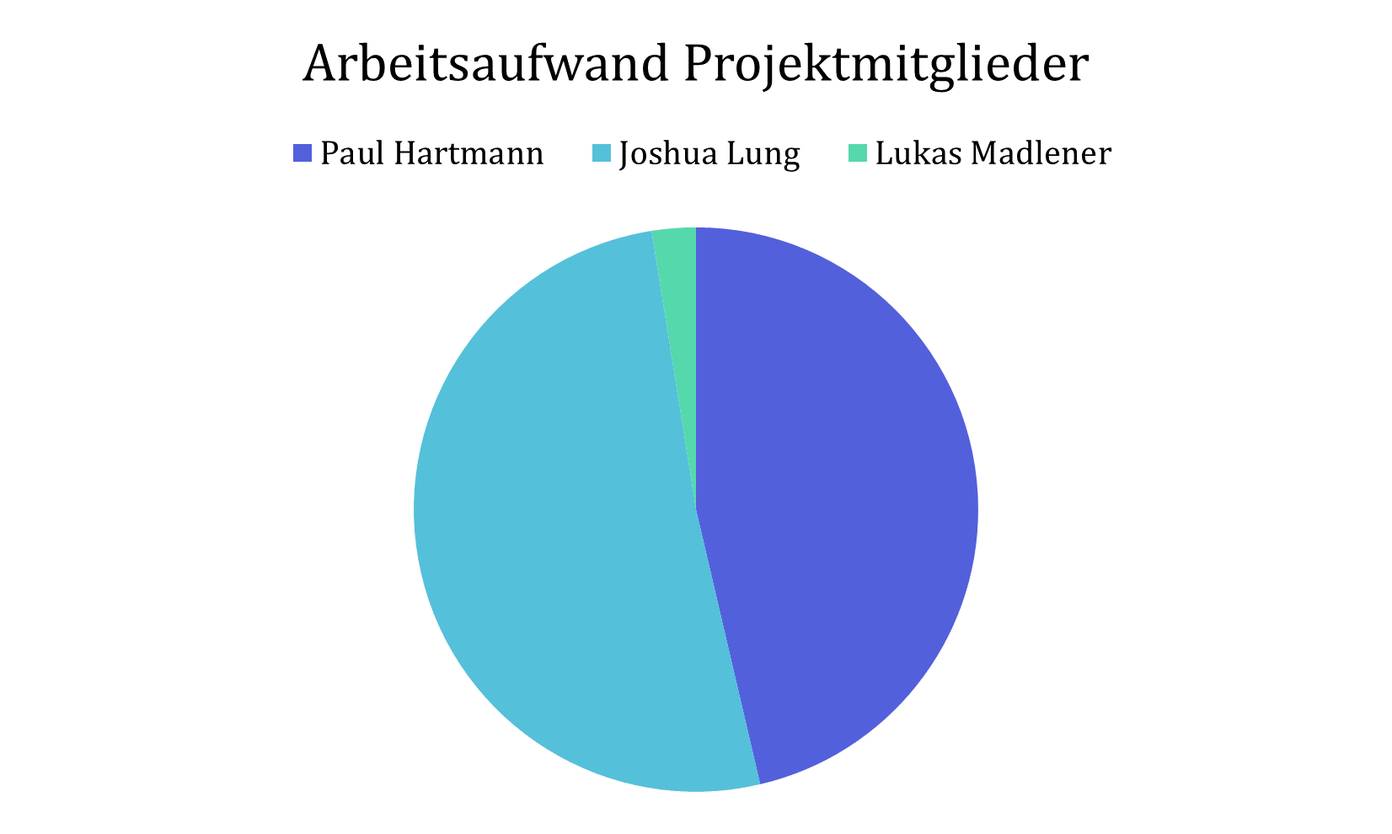
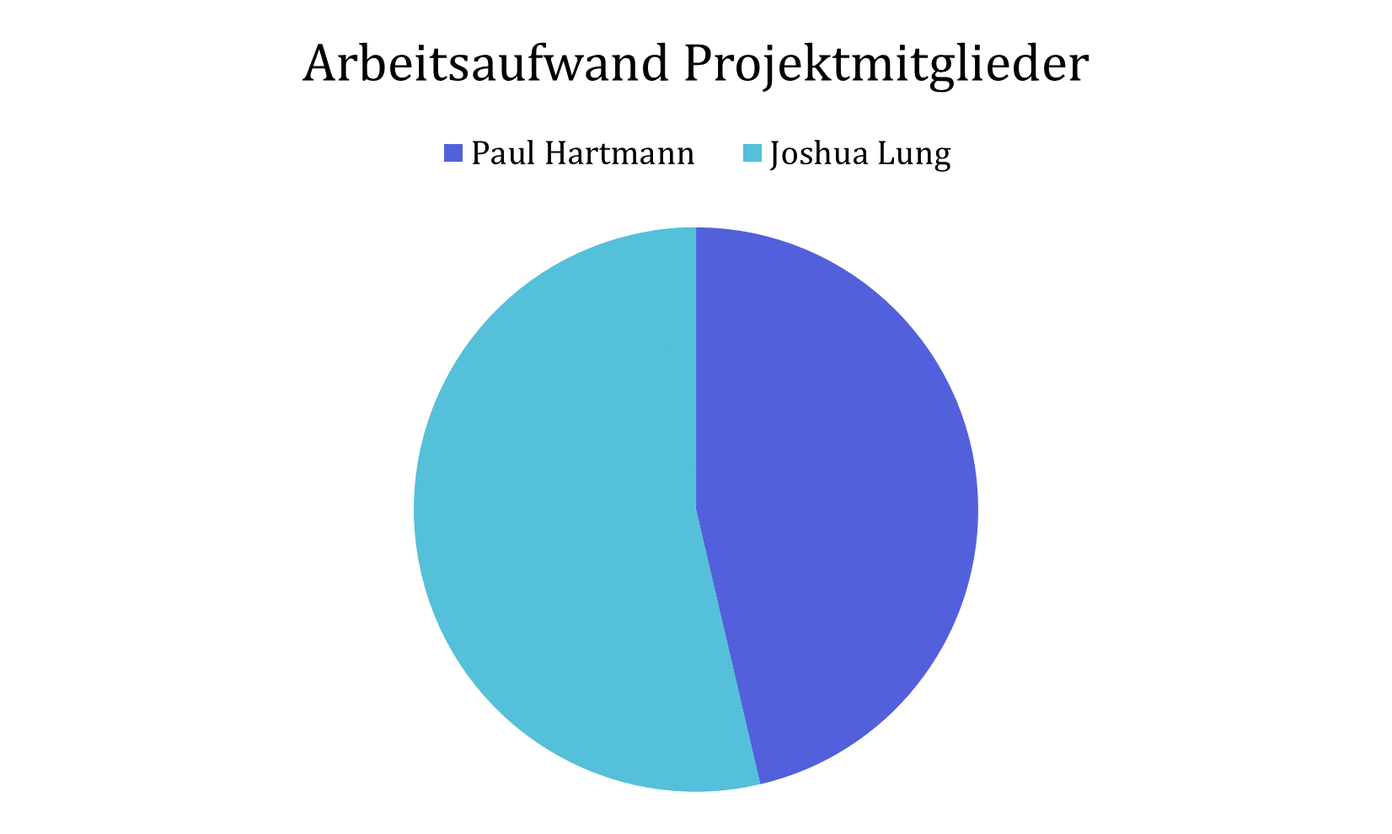
thanos snapped lukas (other minor fixes)

Changed region(s): [[0.2161, 0.1515, 0.8027, 0.2121], [0.4631, 0.2727, 0.5248, 0.5758]]

diff --git a/Diplomarbeit/sections/produktmanagement/projektfunktionendiagramm.tex b/Diplomarbeit/sections/produktmanagement/projektfunktionendiagramm.tex
@@ -4,69 +4,69 @@ Das Projektfunktionendiagramm zeigt die Aufgabenverteilung innerhalb des Projekt
 
 
 \begin{longtable}{l|c|c|c|c|c|c}
-  \multicolumn{7}{c}{\textbf{Funktionendiagramm}}                                                                                              \\
+  \multicolumn{7}{c}{\textbf{Funktionendiagramm}}                                                                                 \\
   \toprule
-  Phasen / AP                                           & \ve{Paul (PL)} & \ve{Joshua} & \ve{Lukas} & \ve{LTW} & \ve{Hämmerle} & \ve{Riedmann} \\
+  Phasen / AP                                           & \ve{Paul (PL)} & \ve{Joshua} & \ve{LTW} & \ve{Hämmerle} & \ve{Riedmann} \\
   \midrule
   \endhead
-  \multicolumn{7}{l}{1.1 Projektmanagement}                                                                                                    \\
+  \multicolumn{7}{l}{1.1 Projektmanagement}                                                                                       \\
   \midrule
-  1.1.1 Projektstart                                    & D              & M           & M          & E        & E             &               \\
-  1.1.2 Koordination                                    & D              & M           & M          &          &               &               \\ \ghline
-  1.1.3 Controlling                                     & D              & M           & M          & I        &               &               \\ \ghline
-  1.1.4 Projektabschluss                                & D              & M           & M          & M        &               &               \\
+  1.1.1 Projektstart                                    & D              & M           & E        & E             &               \\
+  1.1.2 Koordination                                    & D              & M           &          &               &               \\ \ghline
+  1.1.3 Controlling                                     & D              & M           & I        &               &               \\ \ghline
+  1.1.4 Projektabschluss                                & D              & M           & M        &               &               \\
 
   \midrule
-  \multicolumn{7}{l}{1.2 Analyse}                                                                                                              \\
+  \multicolumn{7}{l}{1.2 Analyse}                                                                                                 \\
   \midrule
-  1.2.1 LTW Arbeitspaket 4.1                            & D              &             & M          &          &               &               \\
-  1.2.2 LTW Arbeitspaket 4.2                            &                & D           &            &          &               &               \\ \ghline
-  1.2.3 LTW Arbeitspaket 4.3                            &                &             & D          &          &               &               \\ \ghline
-  1.2.4 Nutzwertanalyse erstellen                       & D              & M           & M          &          & E             &               \\ \ghline
-  1.2.5 Umfrage erstellen und auswerten                 & D              & M           &            & E        & E             &               \\ \ghline
-  1.2.6 Konstruktion möglicher Varianten                &                & D           & D          & E        &               &               \\ \ghline
-  1.2.7 Abschluss Analysephase                          & D              & M           & M          & E        & E             &               \\
+  1.2.1 LTW Arbeitspaket 4.1                            & D              &             &          &               &               \\
+  1.2.2 LTW Arbeitspaket 4.2                            &                & D           &          &               &               \\ \ghline
+  1.2.3 LTW Arbeitspaket 4.3                            & D              &             &          &               &               \\ \ghline
+  1.2.4 Nutzwertanalyse erstellen                       & D              & M           &          & E             &               \\ \ghline
+  1.2.5 Umfrage erstellen und auswerten                 & D              & M           & E        & E             &               \\ \ghline
+  1.2.6 Konstruktion möglicher Varianten                &                & D           & E        &               &               \\ \ghline
+  1.2.7 Abschluss Analysephase                          & D              & M           & E        & E             &               \\
 
   \midrule
-  \multicolumn{7}{l}{1.3 App und Prototyp }                                                                                                    \\
+  \multicolumn{7}{l}{1.3 App und Prototyp }                                                                                       \\
   \midrule
-  1.3.1 Turm Software entwickeln                        &                & D           &            &          &               & I             \\
-  1.3.2 Turm Hardware entwickeln                        &                & D           &            &          &               & I             \\ \ghline
-  1.3.3 Turm Teile 3D-Drucken                           &                & D           &            &          &               &               \\ \ghline
-  1.3.4 App Mockup designen                             & D              & M           &            &          &               &               \\ \ghline
-  1.3.5 App Clickable Prototype erstellen               & D              & M           &            &          &               &               \\ \ghline
-  1.3.6 App entwickeln                                  & D              &             &            &          &               & I             \\ \ghline
-  1.3.7 Firebase Backend aufsetzen                      & D              & M           & M          &          &               & I             \\ \ghline
-  1.3.8 Softwarekomponente mit Backend integrieren      & D              & M           &            &          &               & I             \\
-  1.3.9 Prototyp fertigstellen                          & D              & M           & M          &          &               &               \\ \ghline
+  1.3.1 Turm Software entwickeln                        &                & D           &          &               & I             \\
+  1.3.2 Turm Hardware entwickeln                        &                & D           &          &               & I             \\ \ghline
+  1.3.3 Turm Teile 3D-Drucken                           &                & D           &          &               &               \\ \ghline
+  1.3.4 App Mockup designen                             & D              & M           &          &               &               \\ \ghline
+  1.3.5 App Clickable Prototype erstellen               & D              & M           &          &               &               \\ \ghline
+  1.3.6 App entwickeln                                  & D              &             &          &               & I             \\ \ghline
+  1.3.7 Firebase Backend aufsetzen                      & D              & M           &          &               & I             \\ \ghline
+  1.3.8 Softwarekomponente mit Backend integrieren      & D              & M           &          &               & I             \\
+  1.3.9 Prototyp fertigstellen                          & D              & M           &          &               &               \\ \ghline
 
   \midrule
-  \multicolumn{7}{l}{1.4 Testphase}                                                                                                            \\
+  \multicolumn{7}{l}{1.4 Testphase}                                                                                               \\
   \midrule
-  1.4.1 App testen                                      & D              &             &            &          &               &               \\
-  1.4.2 Turm testen                                     &                & D           &            &          &               &               \\ \ghline
-  1.4.3 Integrationstests durchführen                   & D              & M           &            &          &               &               \\ \ghline
-  1.4.4 Abschluss Testphase                             & D              & M           &            &          &               &               \\
+  1.4.1 App testen                                      & D              &             &          &               &               \\
+  1.4.2 Turm testen                                     &                & D           &          &               &               \\ \ghline
+  1.4.3 Integrationstests durchführen                   & D              & M           &          &               &               \\ \ghline
+  1.4.4 Abschluss Testphase                             & D              & M           &          &               &               \\
 
   \midrule
-  \multicolumn{7}{l}{1.5 Dokumentation und Schrifliche Arbeit}                                                                                 \\
+  \multicolumn{7}{l}{1.5 Dokumentation und Schrifliche Arbeit}                                                                    \\
   \midrule
 
-  1.5.1 Latex Workspace und Versionskontrolle aufsetzen &                & D           &            &          &               &               \\
-  1.5.2 Dokumententemplate erstellen                    &                & D           &            &          &               &               \\ \ghline
-  1.5.3 Formelle Inhalte erstellen                      & D              & M           &            &          &               &               \\ \ghline
-  1.5.4 Ergebnisse der Analysephase dokumentieren       & D              & M           & M          & I        & E             &               \\ \ghline
-  1.5.5 App Entwicklung dokumentieren                   & D              &             &            &          &               &               \\ \ghline
-  1.5.6 Turm Entwicklung dokumentieren                  &                & D           &            &          &               &               \\ \ghline
-  1.5.7 Verwendete Technologie dokumentieren            & D              & M           &            &          &               &               \\ \ghline
-  1.5.8 Fertigstellen der schriflichen Arbeit           & D              & M           &            & I        & E             & E             \\ \ghline
-  1.5.9 Präsentation der Diplomarbeit                   & D              & M           & M          &          &               &               \\
+  1.5.1 Latex Workspace und Versionskontrolle aufsetzen &                & D           &          &               &               \\
+  1.5.2 Dokumententemplate erstellen                    &                & D           &          &               &               \\ \ghline
+  1.5.3 Formelle Inhalte erstellen                      & D              & M           &          &               &               \\ \ghline
+  1.5.4 Ergebnisse der Analysephase dokumentieren       & D              & M           & I        & E             &               \\ \ghline
+  1.5.5 App Entwicklung dokumentieren                   & D              &             &          &               &               \\ \ghline
+  1.5.6 Turm Entwicklung dokumentieren                  &                & D           &          &               &               \\ \ghline
+  1.5.7 Verwendete Technologie dokumentieren            & D              & M           &          &               &               \\ \ghline
+  1.5.8 Fertigstellen der schriflichen Arbeit           & D              & M           & I        & E             & E             \\ \ghline
+  1.5.9 Präsentation der Diplomarbeit                   & D              & M           &          &               &               \\
 
   \midrule
-  \multicolumn{7}{l}{\small D: Durchführungsverantwortung}                                                                                     \\
-  \multicolumn{7}{l}{\small M: Mitarbeit}                                                                                                      \\
-  \multicolumn{7}{l}{\small E: Entscheidung}                                                                                                   \\
-  \multicolumn{7}{l}{\small I: Information}                                                                                                    \\
+  \multicolumn{7}{l}{\small D: Durchführungsverantwortung}                                                                        \\
+  \multicolumn{7}{l}{\small M: Mitarbeit}                                                                                         \\
+  \multicolumn{7}{l}{\small E: Entscheidung}                                                                                      \\
+  \multicolumn{7}{l}{\small I: Information}                                                                                       \\
   \bottomrule
 
   % This is a hack but idc

diff --git a/Diplomarbeit/sections/produktmanagement/zeiterfassung.tex b/Diplomarbeit/sections/produktmanagement/zeiterfassung.tex
@@ -14,9 +14,8 @@ Die folgende Abbildung und Tabelle zeigt den Arbeitsaufwand der einzelnen Teammi
     \midrule
     Joshua Lung           & 241 Stunden             \\
     Paul Hartmann         & 229 Stunden             \\
-    Lukas Madlener        & 10 Stunden              \\
     \midrule
-    Summe                 & 480 Stunden             \\
+    Summe                 & 470 Stunden             \\
     \bottomrule
   \end{tabular}
   \caption{Arbeitsaufwand der Teammitglieder}
@@ -41,19 +40,19 @@ Die folgende Abbildung und Tabelle zeigen den Arbeitsaufwand der einzelnen Proje
   \small
   \begin{tabular}{lrrrr}
     \toprule
-    \textbf{Projekt}        & \textbf{Arbeitsaufwand} & \textbf{\makecell{Paul                            \\Hartmann}} & \textbf{\makecell{Joshua\\Lung}} & \textbf{\makecell{Lukas\\Madlener}} \\
+    \textbf{Projekt}        & \textbf{Arbeitsaufwand} & \textbf{\makecell{Paul               \\Hartmann}} & \textbf{\makecell{Joshua\\Lung}} \\
     \midrule
-    Schriftliche Arbeit     & 108 Stunden             & 56 Stunden             & 51 Stunden  & 1 Stunde   \\
-    Turm Controller         & 93 Stunden              &                        & 93 Stunden  &            \\
-    Mobile App              & 83 Stunden              & 77 Stunden             & 6 Stunden   &            \\
-    Sonstiges               & 43 Stunden              & 25 Stunden             & 16 Stunden  & 1 Stunde   \\
-    Recherche               & 30 Stunden              & 13 Stunden             & 13 Stunden  & 4 Stunden  \\
-    Konstruktion            & 18 Stunden              & 7 Stunden              & 7 Stunden   & 4 Stunden  \\
-    Turm Physical Prototype & 16 Stunden              &                        & 16 Stunden  &            \\
-    Backend (Firebase)      & 3 Stunden               & 3 Stunden              &             &            \\
-    Admin Panel             & 3 Stunden               & 3 Stunden              &             &            \\
+    Schriftliche Arbeit     & 108 Stunden             & 56 Stunden             & 51 Stunden  \\
+    Turm Controller         & 93 Stunden              &                        & 93 Stunden  \\
+    Mobile App              & 83 Stunden              & 77 Stunden             & 6 Stunden   \\
+    Sonstiges               & 43 Stunden              & 25 Stunden             & 16 Stunden  \\
+    Recherche               & 30 Stunden              & 13 Stunden             & 13 Stunden  \\
+    Konstruktion            & 18 Stunden              & 7 Stunden              & 7 Stunden   \\
+    Turm Physical Prototype & 16 Stunden              &                        & 16 Stunden  \\
+    Backend (Firebase)      & 3 Stunden               & 3 Stunden              &             \\
+    Admin Panel             & 3 Stunden               & 3 Stunden              &             \\
     \midrule
-    Summe                   & 397 Stunden             & 184 Stunden            & 203 Stunden & 10 Stunden \\
+    Summe                   & 387 Stunden             & 184 Stunden            & 203 Stunden \\
     \bottomrule
   \end{tabular}
   \caption{Arbeitsaufwand der einzelnen Projekte}

diff --git a/Diplomarbeit/sections/impressum/main.tex b/Diplomarbeit/sections/impressum/main.tex
@@ -8,13 +8,11 @@ Das Projektteam besteht aus folgenden Schülern:
 \begin{table}[H]
   \centering
   \begin{tabular}{lp{0.4\textwidth}c}
-    \multicolumn{3}{c}{\textbf{Projektteam}} \\
+    \multicolumn{3}{c}{\textbf{Projektteam}}                                                                                                                                                                                                                                                                                                                                                     \\
     \toprule
-    Paul Hartmann  & Paul übernahm die Projektleitung und war für die Kommunikation mit dem Partnerunternehmen zuständig. Er recherchierte zu Varianten zur Lagerung von Fahrrädern und führte die Nutzwertanalyse und Umfrage aus. Paul entwickelte die Mobile-App. & \begin{minipage}{.2\textwidth}\centering\includegraphics[width=\textwidth]{images/paulhartmann.jpg}\end{minipage} \\
+    Paul Hartmann & Paul übernahm die Projektleitung und war für die Kommunikation mit dem Partnerunternehmen zuständig. Er recherchierte zu Varianten zur Lagerung von Fahrrädern und führte die Nutzwertanalyse und Umfrage aus. Paul entwickelte die Mobile-App.          & \begin{minipage}{.2\textwidth}\centering\includegraphics[width=\textwidth]{images/paulhartmann.jpg}\end{minipage} \\
     \midrule
-    Joshua Lung    & Joshua recherchierte zu Varianten zur Lagerung von Fahrrädern, führte die Nutzwertanalyse aus, erstellte Fragen der Umfrage und konzeptionierte das Rondell-Modell. Er baute den Prototyp des Turmes und übernahm die Softwareentwicklung der Steuerung. & \begin{minipage}{.2\textwidth}\centering\includegraphics[width=\textwidth]{images/joshualung.jpg}\end{minipage} \\
-    \midrule
-    Lukas Madlener & Lukas erstellte Skizzen für verschiedene automatisierte Arten zur Lagerung von Fahrräadern und konzeptionierte das Hochregallager. Er testete NFCTechnologien mit einer Mobile-App. & \begin{minipage}{.2\textwidth}\centering\includegraphics[width=\textwidth]{images/lukasmadlener.jpg}\end{minipage} \\
+    Joshua Lung   & Joshua recherchierte zu Varianten zur Lagerung von Fahrrädern, führte die Nutzwertanalyse aus, erstellte Fragen der Umfrage und konzeptionierte das Rondell-Modell. Er baute den Prototyp des Turmes und übernahm die Softwareentwicklung der Steuerung. & \begin{minipage}{.2\textwidth}\centering\includegraphics[width=\textwidth]{images/joshualung.jpg}\end{minipage}   \\
     \bottomrule
   \end{tabular}
   \caption{Projektteam}

diff --git a/Diplomarbeit/sections/produktmanagement/projektumweltanalyse.tex b/Diplomarbeit/sections/produktmanagement/projektumweltanalyse.tex
@@ -12,20 +12,14 @@ Die Projektumweltanalyse visualisiert interne und externe Beziehungen zu einem P
 \begin{table}
     \centering
     \begin{tabular}{lp{0.3\textwidth}p{0.4\textwidth}}
-        \multicolumn{3}{c}{\textbf{Projektumweltanalyse (Tabellarische Form)}}                                                 \\
+        \multicolumn{3}{c}{\textbf{Projektumweltanalyse (Tabellarische Form)}}                  \\
         \toprule
-        \textbf{Umwelt}             & \textbf{Risiko}                         & \textbf{Maßnahme Strategie}                    \\
+        \textbf{Umwelt}        & \textbf{Risiko}                  & \textbf{Maßnahme Strategie} \\
         \midrule
-        Projektmitglied (Lukas) [0] & Erledigt Aufgaben nicht / Unverlässlich & \begin{itemize}
-                                                                                    \item Lukas übernimmt keine kritischen Aufgaben
-                                                                                    \item Geringeres Arbeitspensum
-                                                                                    \item Pufferzeiten einplanen
-                                                                                \end{itemize} \\
-        \midrule
-        Lieferant (Amazon) [0]      & Lieferzeit zu lang oder verpätet        & \begin{itemize}
-                                                                                    \item Pufferzeiten einplanen
-                                                                                    \item Frühzeitig bestellen
-                                                                                \end{itemize}                    \\
+        Lieferant (Amazon) [0] & Lieferzeit zu lang oder verpätet & \begin{itemize}
+                                                                        \item Pufferzeiten einplanen
+                                                                        \item Frühzeitig bestellen
+                                                                    \end{itemize} \\
         \bottomrule
     \end{tabular}
     \caption{Projektumweltanalyse (Tabellarische Form)}

diff --git a/Diplomarbeit/sections/abkürzungsverzeichnis.tex b/Diplomarbeit/sections/abkürzungsverzeichnis.tex
@@ -20,6 +20,7 @@
   \acro{IoT}{Internet of Things}
   \acro{SDK}{Software"=Entwicklungskit}{Ein Software Entwicklungskit(Software Development Kit) ist eine Sammlung von Programmierwerkzeugen und Programmbibliotheken, die zur Entwicklung von Software dient \citev{sdk}}
   \acro{CAD}{Konstruktionsprogram}{Computer Aided Design}
+  \acro{CAM}{computergestützte Fertigung}{Computer Aided Manufacturing}
   \acro{IDE}{Entwicklungsumgebung}{Integrated Development Environment}
   \acro{FDM}{Fused Deposition Modeling}
   \acro{SLA}{Stereolithographie}{Stereolithography}
@@ -34,7 +35,10 @@
   \acro{RAII}{Ressourcenverwaltung durch Initialisierung}{Resource Acquisition Is Initialization. Ein Konzept, welches es ermöglicht, Ressourcen automatisch zu verwalten.}
   \acro{CRUD}{Erstellen, Lesen, Aktualisieren, Löschen}{Create, Read, Update, Delete. CRUD ist ein Akronym für die vier grundlegenden Funktionen, die in relationalen Datenbanken verwendet werden.}
   % \acro{JSX}{JavaScript Syntax Extension}{JSX ermöglicht es uns, HTML-Elemente in JavaScript zu schreiben ohne die Methoden createElement() oder appendChild() zu verwenden.\citev{jsx}}
+  \acro{ER}{Entity Relation}
 \end{acronym}
 
-% definiert Ausnahmen für ;ehrzahl
+% definiert Ausnahmen für Mehrzahl
 \acrodefplural{SBC}[SBCs]{Einplatinencomputer}
+% This is such a hack lol
+\acrodefplural{CAM}[CAM]{computergestützten Fertigung}

diff --git a/Diplomarbeit/sections/autorenverzeichnis.tex b/Diplomarbeit/sections/autorenverzeichnis.tex
@@ -19,21 +19,20 @@
   Nutzungstiefe                     & Paul Hartmann  \\
   Kundensegmente                    & Paul Hartmann  \\
   Rahmenbedingungen                 & Paul Hartmann  \\
-  Umfrage                           & Paul Hartmann \\
+  Umfrage                           & Paul Hartmann  \\
   \midrule
   \textbf{Produktkonzeption}        & Paul Hartmann  \\
                                     & Joshua Lung    \\
-                                    & Lukas Madlener \\
   \midrule
   \textbf{Konzept des Prototypen}   &                \\
   Turm                              & Joshua Lung    \\
   App                               & Paul Hartmann  \\
-  Datenbank                         & Lukas Madlener \\
+  Datenbank                         & Paul Hartmann  \\
   \midrule
   \textbf{Umsetzung des Prototypen} &                \\
   Turm                              & Joshua Lung    \\
   App                               & Paul Hartmann  \\
-  Kommunikation                      & Joshua Lung    \\
+  Kommunikation                     & Joshua Lung    \\
   Datenbank                         & Joshua Lung    \\
   \midrule
   \textbf{Marktskalierung}          & Paul Hartmann  \\

diff --git a/Diplomarbeit/sections/verwendete_technologie/inventor.tex b/Diplomarbeit/sections/verwendete_technologie/inventor.tex
@@ -1,7 +1,7 @@
 \subsection{Autodesk Inventor}
 \label{sec:inventor}
 
-Inventor ist eine von Autodesk entwickelte \ac{CAD}/\ac{CAM} Software. Mittels Autodesk Inventor können Bauteile digital konstruiert werden, Baugruppen zusammengebaut werden und Bauteil Simulationen durchgeführt werden. Fertige Bauteile können direkt zur additiven Herstellung exportiert werden. Ansonsten können mittels der \ac{CAM} Suite Fräsanleitungen für automatisierte Fräs- und Drehanlagen erstellt werden.
+Inventor ist eine von Autodesk entwickelte \ac{CAD}/\acs{CAM} Software. Mittels Autodesk Inventor können Bauteile digital konstruiert werden, Baugruppen zusammengebaut werden und Bauteil Simulationen durchgeführt werden. Fertige Bauteile können direkt zur additiven Herstellung exportiert werden. Ansonsten können mittels der \acp{CAM} Suite Fräsanleitungen für automatisierte Fräs- und Drehanlagen erstellt werden.
 
 Inventor unterstützt viele gängige 3D Konstruktionsmethoden, unter anderem Subdivision Modeling, Spline Patch Modeling und 2D- und 3D-skizzenbasierte Konstruktion.
 

diff --git a/Diplomarbeit/sections/zusammenfassung.tex b/Diplomarbeit/sections/zusammenfassung.tex
@@ -1,6 +1,6 @@
 \section{Zusammenfassung}
 
-In einem ersten Gespräch beim Partnerunternehmen hat das Projektteam (Joshua Lung, Paul Hartmann und Lukas Madlener) schnell festgestellt, dass das Thema „automatisches Fahrradparkhaus“ interressant ist und hat die ersten Ziele gemeinsam formuliert.
+In einem ersten Gespräch beim Partnerunternehmen hat das Projektteam (Paul Hartmann und Joshua Lung) schnell festgestellt, dass das Thema „automatisches Fahrradparkhaus“ interressant ist und hat die ersten Ziele gemeinsam formuliert.
 
 \noindent Die Ziele sind die Durchführung einer Marktanalyse, Konzeptionierung eines Fahrradparkhauses, Entwicklung einer App zum Buchen von Abstellplätzen und das Erstellen eines Modells des Fahrradturms. Für die Ziele sind entsprechende Meilensteine und Termine definiert, damit die Projektarbeit strukturiert voran geht. Zusätzlich wurden die aufgewendete Arbeitszeit pro Person dokumentiert.
 

diff --git a/Diplomarbeit/sections/deckblatt.tex b/Diplomarbeit/sections/deckblatt.tex
@@ -27,9 +27,9 @@
     \begin{tabular}{@{}p{0.35\textwidth}@{}p{0.3\textwidth}@{}p{0.35\textwidth}@{}}
       \multicolumn{2}{@{}l@{}}{\textbf{\makecell[l]{Ausgeführt im \\ Schuljahr 2022/23 von:}}} & \textbf{Betreuer:}                              \\
       \vspace*{0.5cm}                                             \\
-      Paul Hartmann  & 5aWI & Prof. MMag. Günter Hämmerle         \\
-      Joshua Lung    & 5aWP & Mag. Andreas Riedmann               \\
-      Lukas Madlener & 5aWI & LTW Intralogistics GmbH             \\
+      Paul Hartmann & 5aWI & Prof. MMag. Günter Hämmerle          \\
+      Joshua Lung   & 5aWP & Mag. Andreas Riedmann                \\
+                    &      & LTW Intralogistics GmbH              \\
     \end{tabular}
   \end{center}
 

diff --git a/Diplomarbeit/sections/versionshistorie.tex b/Diplomarbeit/sections/versionshistorie.tex
@@ -8,11 +8,12 @@
     \midrule
     0.1              & 06.03.2023     & Vorschauversion              \\
     0.2              & 15.03.2023     & Version für Matze            \\
-    0.3              & 16.03.2023     & Korrekturversion Riedmann    \\
+    0.3              & 16.03.2023     & Korrekturversion Riedmann I  \\
     0.4              & 16.03.2023     & Korrekturversion Hämmerle    \\
     0.5              & 24.03.2023     & Version für LTW              \\
     0.6              & 26.03.2023     & Korrekturversion Riedmann II \\
     1.0              & 31.03.2023     & Einreichungsversion          \\
+    1.1              & 21.04.2023     & HTL V Version                \\
     \bottomrule
   \end{tabular}
   \caption{Versionshistorie}

diff --git a/Diplomarbeit/sections/produktmanagement/projektauftrag.tex b/Diplomarbeit/sections/produktmanagement/projektauftrag.tex
@@ -67,7 +67,7 @@ Ein Projektauftrag legt wichtige Eckdaten des Projekts fest und wird von Projekt
 
   Projektleiter              & Paul Hartmann                                                                                  \\ \midrule
 
-  Projektteammitglieder      & Paul Hartmann, Joshua Lung, Lukas Madlener                                                     \\ \midrule
+  Projektteammitglieder      & Paul Hartmann, Joshua Lung                                                                     \\ \midrule
 
   % Unterschrift Projektauftraggeber                                                                                            \\ \midrule
   Unterschrift Projektleiter &

diff --git a/Diplomarbeit/sections/prototypentwicklung_umsetzung/main.tex b/Diplomarbeit/sections/prototypentwicklung_umsetzung/main.tex
@@ -1,5 +1,5 @@
 \section{Umsetzung des Prototypen}
-Für die Umsetzung des Prototypen muss die App entwickelt, der physische Prototyp gebaut und dessen Steuerung programmiert werden.
+Für die Umsetzung des Prototypen muss die App entwickelt, der physiarchitektursche Prototyp gebaut und dessen Steuerung programmiert werden.
 
 \subfile{app/main.tex}
 
@@ -9,3 +9,5 @@ Für die Umsetzung des Prototypen muss die App entwickelt, der physische Prototy
 \clearpage
 \subfile{datenbank.tex}
 
+\clearpage
+\subfile{kommunikation.tex}
